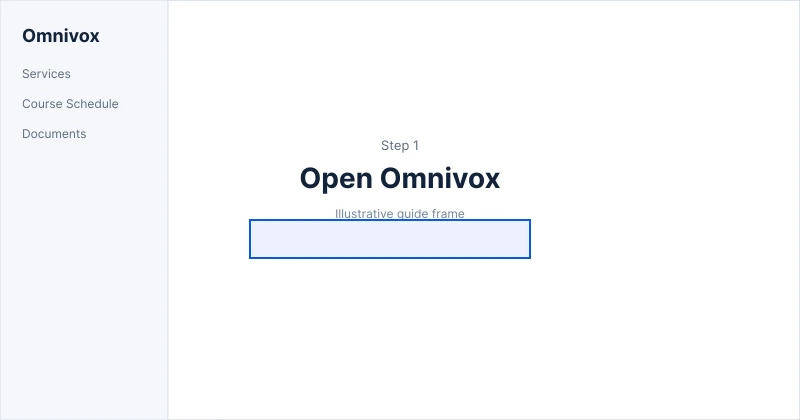
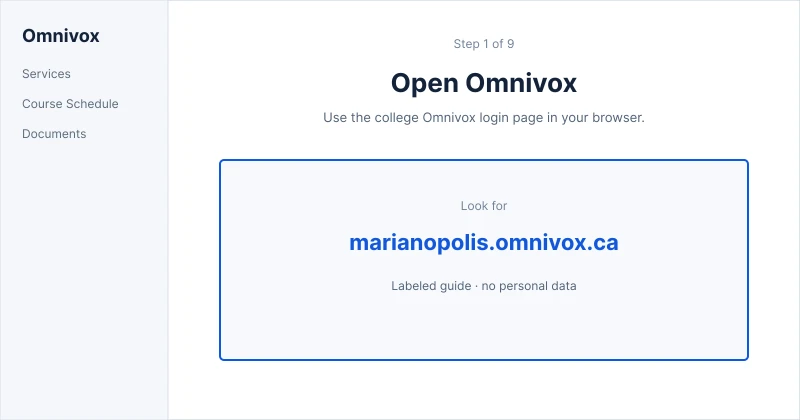
Fix schedule and free-time UX root causes with proof.
Stop the hidden import drawer from stretching the empty state below the fold, style parse success as success not error, restore free-time save feedback via enhance update, and clarify empty/tutorial copy plus guide frames.

diff --git a/src/lib/maritools/styles/preview-extras.css b/src/lib/maritools/styles/preview-extras.css
@@ -101,13 +101,117 @@
 
 .mt-preview .empty-calendar {
 	display: grid;
-	min-height: 36rem;
-	place-items: center;
-	padding: 2rem;
+	min-height: calc(100vh - var(--header-h) - var(--preview-h) - 78px);
+	max-height: calc(100vh - var(--header-h) - var(--preview-h) - 78px);
+	place-content: center;
+	justify-items: center;
+	padding: clamp(2rem, 6vh, 4rem) 2rem;
 	border-bottom: 1px solid var(--line);
-	background: white;
-	gap: 1rem;
+	background:
+		radial-gradient(ellipse 70% 55% at 50% 42%, rgb(126 166 255 / 10%), transparent 70%),
+		white;
+	gap: 1.25rem;
 	text-align: center;
+}
+
+.mt-preview .empty-calendar-copy {
+	display: grid;
+	max-width: 22rem;
+	gap: 0.5rem;
+}
+
+.mt-preview .empty-calendar-copy strong {
+	font-family: var(--font-display);
+	font-size: clamp(1.25rem, 2.2vw, 1.6rem);
+	font-weight: 650;
+	color: var(--ink);
+}
+
+.mt-preview .empty-calendar-copy p {
+	margin: 0;
+	color: var(--steel);
+	font-size: 0.8125rem;
+	line-height: 1.5;
+}
+
+.mt-preview .empty-calendar .primary-button {
+	min-height: 2.75rem;
+	padding: 0 1.25rem;
+	font-size: 0.75rem;
+}
+
+.mt-preview .paint-empty-hint {
+	margin: 0 0 0.85rem;
+	padding: 0.65rem 0.75rem;
+	border: 1px dashed var(--line-dark);
+	background: #f7f9fc;
+	color: #516278;
+	font-size: 0.6875rem;
+	line-height: 1.45;
+}
+
+.mt-preview .members-empty {
+	margin: 0;
+	padding: 0.85rem 0 1rem;
+	color: #516278;
+	font-size: 0.6875rem;
+	line-height: 1.5;
+}
+
+.mt-preview .board-panel .primary-button.wide {
+	min-height: 2.75rem;
+}
+
+.mt-preview .page-schedule,
+.mt-preview .page-free,
+.mt-preview .page-free-boards {
+	flex: 1 1 auto;
+	display: flex;
+	flex-direction: column;
+	min-height: 100%;
+	background: white;
+}
+
+.mt-preview .page-schedule .import-drawer,
+.mt-preview .page-free .board-panel {
+	background: #f4f7fb;
+}
+
+.mt-preview .page-free-boards .index-title {
+	align-items: flex-end;
+}
+
+.mt-preview .page-free-boards .boards-help strong {
+	font-size: 0.8125rem;
+}
+
+.mt-preview .page-free-boards .boards-help:first-of-type {
+	margin-top: 1.5rem;
+}
+
+@media (max-width: 700px) {
+	.mt-preview .empty-calendar {
+		min-height: 22rem;
+		max-height: none;
+		padding: 2rem 1.25rem;
+	}
+
+	.mt-preview .page-schedule .utility-actions,
+	.mt-preview .page-free .utility-actions {
+		gap: 0.4rem;
+	}
+
+	.mt-preview .page-schedule .utility-actions .primary-button,
+	.mt-preview .page-schedule .utility-actions .quiet-button,
+	.mt-preview .page-free .utility-actions .primary-button,
+	.mt-preview .page-free .utility-actions .quiet-button {
+		min-height: 2.75rem;
+		padding: 0 0.85rem;
+	}
+
+	.mt-preview .page-free .board-panel {
+		padding: 1.25rem 1rem 1.75rem;
+	}
 }
 
 .mt-preview .field-error,

diff --git a/src/routes/tools/free-time/[slug]/+page.svelte b/src/routes/tools/free-time/[slug]/+page.svelte
@@ -101,7 +101,6 @@
 						><button type="button" aria-label="Next week" on:click={goToNextWeek}>→</button>
 					</div>
 					<a class="quiet-button" href="/tools/free-time">All boards</a>
-					<button class="primary-button" type="submit" form="save-availability">Save availability</button>
 				</div>
 			</div>
 
@@ -133,20 +132,34 @@
 					</label>
 
 					<div class="members">
-						<div><strong>Members</strong><span>{board.members.length} added</span></div>
-						<ul>
-							{#each board.members as member, index (member.id)}
-								<li>
-									<i class="member-dot {MEMBER_DOTS[index % MEMBER_DOTS.length]}"></i>
-									<span>
-										{member.displayName}
-										{#if displayName && member.displayName === displayName}
-											<small>You, editing</small>
-										{/if}
-									</span>
-								</li>
-							{/each}
-						</ul>
+						<div>
+							<strong>Members</strong>
+							<span
+								>{board.members.length === 0
+									? 'Waiting for the first save'
+									: `${board.members.length} saved`}</span
+							>
+						</div>
+						{#if board.members.length === 0}
+							<p class="members-empty">
+								No one has saved yet. Paint free slots, add a display name, then Save so the
+								group can see overlaps.
+							</p>
+						{:else}
+							<ul>
+								{#each board.members as member, index (member.id)}
+									<li>
+										<i class="member-dot {MEMBER_DOTS[index % MEMBER_DOTS.length]}"></i>
+										<span>
+											{member.displayName}
+											{#if displayName && member.displayName === displayName}
+												<small>You, editing</small>
+											{/if}
+										</span>
+									</li>
+								{/each}
+							</ul>
+						{/if}
 					</div>
 
 					<form
@@ -154,10 +167,13 @@
 						method="POST"
 						action="?/saveMember"
 						use:enhance={() => {
-							return async ({ result }) => {
+							return async ({ result, update }) => {
 								if (result.type === 'failure') {
 									saveMessage = String(result.data?.saveError ?? 'Could not save.');
+									return;
 								}
+								await update();
+								saveMessage = 'Availability saved.';
 							};
 						}}
 					>

diff --git a/src/routes/tools/schedule/+page.svelte b/src/routes/tools/schedule/+page.svelte
@@ -185,7 +185,10 @@
 				<ScheduleCalendar {grid} />
 			{:else}
 				<div class="empty-calendar">
-					<p>Paste an Omnivox compact list to see your week here.</p>
+					<div class="empty-calendar-copy">
+						<strong>Import your Omnivox schedule</strong>
+						<p>Paste the compact numbered course list to fill this week view.</p>
+					</div>
 					<button class="primary-button" type="button" on:click={openImport}>Import Omnivox</button>
 				</div>
 			{/if}
@@ -203,7 +206,10 @@
 						on:click={() => (drawerOpen = false)}>×</button
 					>
 				</div>
-				<p>Copy the compact numbered course list. Skip the schedule grid and personal details.</p>
+				<p>
+					From Omnivox, open the printer-friendly compact list, copy only the numbered courses, then
+					paste here. Leave out your student number and name.
+				</p>
 				<textarea
 					id="schedule-paste"
 					name="paste"
@@ -213,11 +219,13 @@
 					spellcheck="false"
 				></textarea>
 				{#if parsed}
-					<div class="parse-status">
-						<span>{result.courses.length} classes detected</span>
-						{#if !result.ok}<span>Could not read paste</span>{/if}
+					<div class="parse-status" aria-live="polite">
+						<span class="parse-count">{result.courses.length} classes detected</span>
+						{#if !result.ok}<span class="parse-fail">Could not read paste</span>{/if}
 						{#if conflictDays > 0}
-							<span>{conflictDays} conflict{conflictDays === 1 ? '' : 's'}</span>
+							<span class="parse-conflict"
+								>{conflictDays} conflict{conflictDays === 1 ? '' : 's'}</span
+							>
 						{/if}
 					</div>
 				{/if}

diff --git a/src/routes/tools/schedule/page.test.js b/src/routes/tools/schedule/page.test.js
@@ -35,6 +35,15 @@ describe('My schedule', () => {
 		expect(screen.queryByText(/scribe/i)).not.toBeInTheDocument();
 	});
 
+	it('shows a clear empty-state CTA before any paste', () => {
+		render(SchedulePage, { props: { data: defaultData } });
+		expect(screen.getByText('Import your Omnivox schedule')).toBeInTheDocument();
+		expect(
+			screen.getByText(/Paste the compact numbered course list to fill this week view/)
+		).toBeInTheDocument();
+		expect(screen.getAllByRole('button', { name: 'Import Omnivox' }).length).toBeGreaterThan(0);
+	});
+
 	it('reads the canonical paste into a positioned calendar', () => {
 		render(SchedulePage, { props: { data: defaultData } });
 		fireEvent.click(screen.getAllByRole('button', { name: 'Import Omnivox' })[0]);
@@ -46,6 +55,7 @@ describe('My schedule', () => {
 		expect(screen.getByText('Badminton and Conditioning')).toBeInTheDocument();
 		expect(screen.getByRole('button', { name: 'Add to Google Calendar' })).toBeInTheDocument();
 		expect(screen.getByRole('heading', { level: 1 })).not.toHaveTextContent('Week of January 20');
+		expect(screen.getByText('7 classes detected')).toHaveClass('parse-count');
 	});
 
 	it('warns when a student number is in the paste', () => {

diff --git a/src/routes/tools/free-time/[slug]/page.test.js b/src/routes/tools/free-time/[slug]/page.test.js
@@ -26,6 +26,20 @@ describe('free-time board page', () => {
 		expect(screen.getByRole('heading', { name: 'Study group' })).toBeInTheDocument();
 		expect(screen.getByLabelText('Interactive free-time grid')).toBeInTheDocument();
 		expect(screen.getByText('Ada')).toBeInTheDocument();
+		expect(screen.getByRole('button', { name: 'Save availability' })).toBeInTheDocument();
+	});
+
+	it('guides an empty board before anyone paints', () => {
+		render(BoardPage, {
+			props: {
+				data: {
+					board: { ...BOARD, members: [] },
+					shareUrl: 'https://example.com/tools/free-time/study-group'
+				}
+			}
+		});
+		expect(screen.getByText(/No one has saved yet/i)).toBeInTheDocument();
+		expect(screen.getByText(/Paint free slots below/i)).toBeInTheDocument();
 	});
 
 	it('explains unavailable boards', () => {
@@ -63,7 +77,7 @@ describe('free-time board page', () => {
 			}
 		});
 		expect(screen.getByText('Availability saved.')).toBeInTheDocument();
-		expect(screen.getAllByRole('button', { name: 'Save availability' })).toHaveLength(2);
+		expect(screen.getAllByRole('button', { name: 'Save availability' })).toHaveLength(1);
 	});
 
 	it('explains missing boards', () => {

diff --git a/src/lib/maritools/styles/preview-pages.css b/src/lib/maritools/styles/preview-pages.css
@@ -199,16 +199,11 @@
 	}
 
 	.schedule-stage.drawer-hidden {
-		grid-template-columns: minmax(760px, 1fr) 0;
+		grid-template-columns: minmax(760px, 1fr);
 	}
 
 	.schedule-stage.drawer-hidden .import-drawer {
-		overflow: hidden;
-		padding-right: 0;
-		padding-left: 0;
-		border-left: 0;
-		opacity: 0;
-		visibility: hidden;
+		display: none;
 	}
 
 	.calendar-frame {
@@ -501,14 +496,23 @@
 
 	.parse-status {
 		display: flex;
+		flex-wrap: wrap;
 		justify-content: space-between;
 		margin: 10px 0 15px;
+		gap: 8px;
 		color: var(--steel);
 		font-size: 9px;
 	}
 
-	.parse-status span:last-child {
+	.parse-status .parse-count {
+		color: #0c6747;
+		font-weight: 650;
+	}
+
+	.parse-status .parse-fail,
+	.parse-status .parse-conflict {
 		color: var(--red);
+		font-weight: 650;
 	}
 
 	.tutorial-again {

diff --git a/src/lib/maritools/components/FreeTimePaintGrid.svelte b/src/lib/maritools/components/FreeTimePaintGrid.svelte
@@ -99,6 +99,11 @@
 			<button type="button" class="text-button clear-paint" on:click={clearPaint}>Clear</button>
 		</div>
 	</div>
+	{#if freeCells.size === 0 && commonCells.size === 0}
+		<p class="paint-empty-hint">
+			Paint free slots below, or import an Omnivox schedule from the side panel.
+		</p>
+	{/if}
 	<div class="paint-grid" aria-label="Interactive free-time grid">
 		<b>Time</b>
 		{#each dayHeaders as header (header)}

diff --git a/src/lib/maritools/components/OmnivoxTutorialOverlay.svelte b/src/lib/maritools/components/OmnivoxTutorialOverlay.svelte
@@ -47,7 +47,10 @@
 				<div>
 					<span>MariTools guide</span>
 					<h2>Import from Omnivox</h2>
-					<p>Nine short steps. Your student number and legal name stay out of MariTools.</p>
+					<p>
+						Nine short steps. Your student number and legal name stay out of MariTools. Screens
+						are labeled guides, not live Omnivox captures.
+					</p>
 				</div>
 				<ol>
 					{#each OMNIVOX_TUTORIAL_STEPS as item, index (item.n)}

diff --git a/src/routes/tools/free-time/+page.svelte b/src/routes/tools/free-time/+page.svelte
@@ -98,7 +98,10 @@
 		{:else}
 			<div class="boards-help">
 				<strong>No boards yet</strong>
-				<p>Create a board, then share the private link. You do not need an account.</p>
+				<p>
+					Create a board, share the private link, and have everyone paint when they are free. Common
+					overlaps show in green.
+				</p>
 			</div>
 		{/if}
 
